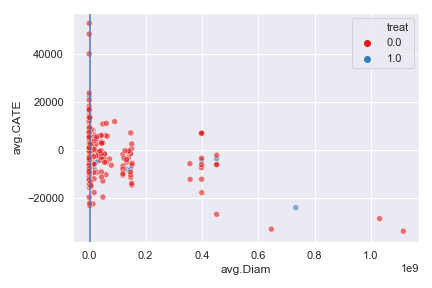
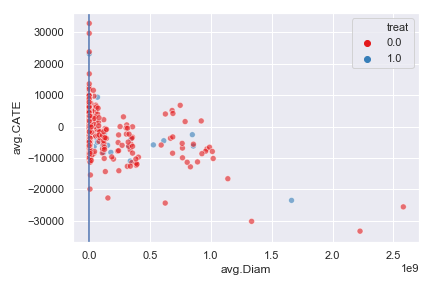
lalonde

diff --git a/Experminents/lalonde_analysis.py b/Experminents/lalonde_analysis.py
@@ -59,11 +59,12 @@ df_nsw_result = pd.DataFrame([['MALTS',np.mean(cate_df_nsw['avg.CATE']),e_bias]]
                              columns=['Method','ATE Estimate','Estimation Bias (%)'])
 
 '''
+'''
 #Matching on NSW+PSID Male Subset of Lalonde's Data
 np.random.seed(0)
 m = pymalts.malts_mf('re78', 'treat', data=data,
                       discrete=['black','hispanic','married','nodegree'],
-                      k_est=15,n_splits=4,n_repeats=1,estimator='linear')
+                      k_est=15, n_splits=2, n_repeats=50, estimator='linear')
 
 df_full = m.CATE_df
 cate_df = m.CATE_df['CATE']
@@ -88,6 +89,8 @@ fig.savefig('lalonde_pruning_1.png')
 print(np.mean(cate_df['avg.CATE']))
 print(cate_df.loc[cate_df['avg.Diam']<100000000]['avg.CATE'].mean())
 print(cate_df.loc[cate_df['treat']==1]['avg.CATE'].mean())
+
+'''
 
 '''
 m_opt_list = pd.concat(m.M_opt_list)
@@ -152,41 +155,41 @@ df_nsw_result = df_nsw_result.append(pd.DataFrame( [['Prognostic Score',ate[0],e
 df_result = df_result.append(pd.DataFrame( [['Prognostic Score',ate[1],e_bias[1]]],
                                           columns=['Method','ATE Estimate','Estimation Bias (%)']))
 
-
+'''
 ##BART
 np.random.seed(0)
 cate_est_nsw = bart.bart('re78','treat',nsw,5)
-cate_est = bart.bart('re78','treat',data,5)
+cate_est, bart_res_c, bart_res_t = bart.bart('re78','treat',data,5,result='full')
 ate_est_nsw = cate_est_nsw.mean(axis=0).mean()
 ate_est = cate_est.mean(axis=0).mean()
 
 ate = np.array([ate_est_nsw,ate_est])
 e_bias = (ate - 886)*100/886
 
-df_nsw_result = df_nsw_result.append(pd.DataFrame( [['BART-CV',ate[0],e_bias[0]]],
-                                          columns=['Method','ATE Estimate','Estimation Bias (%)']))
+# df_nsw_result = df_nsw_result.append(pd.DataFrame( [['BART-CV',ate[0],e_bias[0]]],
+#                                           columns=['Method','ATE Estimate','Estimation Bias (%)']))
 
-df_result = df_result.append(pd.DataFrame( [['BART-CV',ate[1],e_bias[1]]],
-                                          columns=['Method','ATE Estimate','Estimation Bias (%)']))
+# df_result = df_result.append(pd.DataFrame( [['BART-CV',ate[1],e_bias[1]]],
+#                                           columns=['Method','ATE Estimate','Estimation Bias (%)']))
 
 
 ##Causal Forest
 np.random.seed(0)
 cate_est_nsw = causalforest.causalforest('re78','treat',nsw,5)
-cate_est = causalforest.causalforest('re78','treat',data,5)
+cate_est, crf = causalforest.causalforest('re78','treat',data,5,result='full')
 ate_est_nsw = cate_est_nsw.mean(axis=0).mean()
 ate_est = cate_est.mean(axis=0).mean()
 
 ate = np.array([ate_est_nsw,ate_est])
 e_bias = (ate - 886)*100/886
 
-df_nsw_result = df_nsw_result.append(pd.DataFrame( [['Causal Forest-CV',ate[0],e_bias[0]]],
-                                          columns=['Method','ATE Estimate','Estimation Bias (%)']))
+# df_nsw_result = df_nsw_result.append(pd.DataFrame( [['Causal Forest-CV',ate[0],e_bias[0]]],
+#                                           columns=['Method','ATE Estimate','Estimation Bias (%)']))
 
-df_result = df_result.append(pd.DataFrame( [['Causal Forest-CV',ate[1],e_bias[1]]],
-                                          columns=['Method','ATE Estimate','Estimation Bias (%)']))
+# df_result = df_result.append(pd.DataFrame( [['Causal Forest-CV',ate[1],e_bias[1]]],
+#                                           columns=['Method','ATE Estimate','Estimation Bias (%)']))
 
-
+'''
 df_nsw_result = df_nsw_result.set_index('Method')
 df_result = df_result.set_index('Method')
 
@@ -196,3 +199,6 @@ df_result = df_result.rename({'MALTS-Pruned':'MALTS'})
 df_nsw_result.to_latex('lalonde_NSW.tex')
 df_result.to_latex('lalonde_PSID2.tex')
 '''
+
+pd.concat(m.M_opt_list).plot(kind='box',legend=False,figsize=(8,5),fontsize=14)
+plt.ylabel('Distance Metric Stretch',fontsize=14)

diff --git a/Experminents/bart.py b/Experminents/bart.py
@@ -24,7 +24,7 @@ pandas2ri.activate()
 utils = importr('utils')
 dbarts = importr('dbarts')
 
-def bart(outcome,treatment,data,n_splits):
+def bart(outcome,treatment,data,n_splits,result='brief'):
     skf = StratifiedKFold(n_splits=n_splits)
     gen_skf = skf.split(data,data[treatment])
     cate_est = pd.DataFrame()
@@ -50,4 +50,6 @@ def bart(outcome,treatment,data,n_splits):
         cate_est = pd.concat([cate_est, cate_est_i], join='outer', axis=1)
     cate_est['avg.CATE'] = cate_est.mean(axis=1)
     cate_est['std.CATE'] = cate_est.std(axis=1)
+    if result=='full':
+        return cate_est, bart_res_c, bart_res_t
     return cate_est

diff --git a/Experminents/causalforest.py b/Experminents/causalforest.py
@@ -25,7 +25,7 @@ base = importr('base')
 
 grf = importr('grf')
 
-def causalforest(outcome,treatment,data,n_splits=5):
+def causalforest(outcome,treatment,data,n_splits=5,result='brief'):
     skf = StratifiedKFold(n_splits=n_splits)
     gen_skf = skf.split(data,data[treatment])
     cate_est = pd.DataFrame()
@@ -47,5 +47,7 @@ def causalforest(outcome,treatment,data,n_splits=5):
     
     cate_est['avg.CATE'] = cate_est.mean(axis=1)
     cate_est['std.CATE'] = cate_est.std(axis=1)
+    if result=='full':
+        return cate_est, crf
     return cate_est
         

diff --git a/Experminents/experiment_runtime.py b/Experminents/experiment_runtime.py
@@ -17,7 +17,7 @@ sns.set()
 
 
 
-ns = np.array([100,200,500,1000,2000,5000,10000])
+ns = np.array([100,200,500,1000,2000,5000,8000,10000])
 ps = [2,10,20,50,100,500,1000]
 times = []
 error_rate = []
